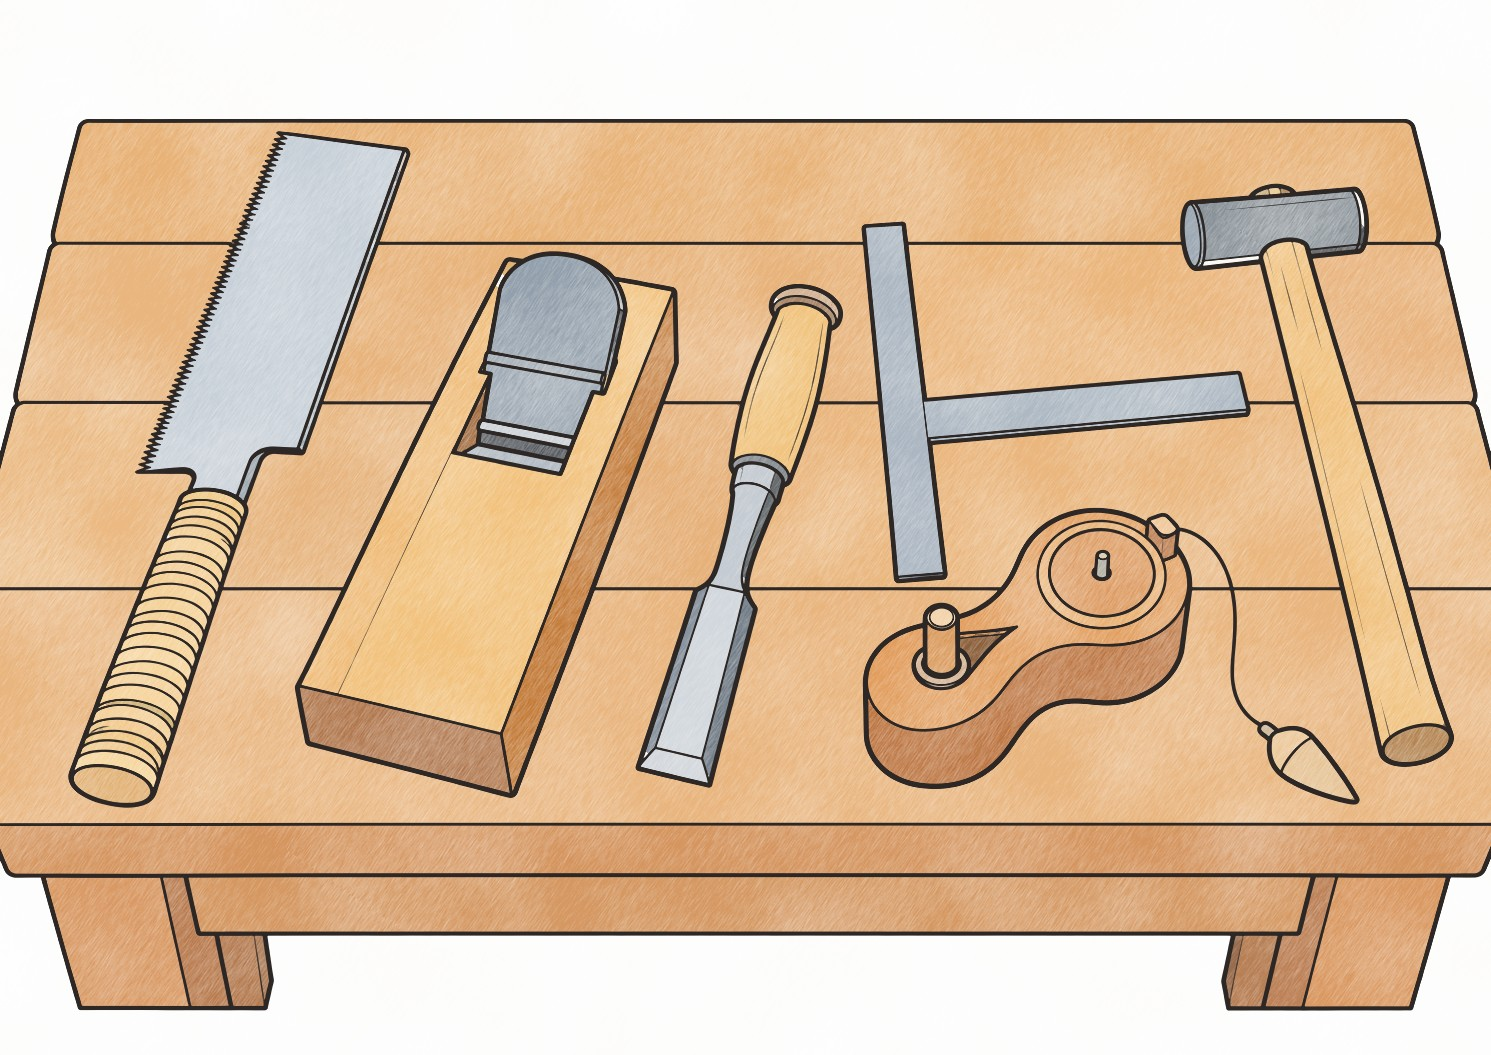
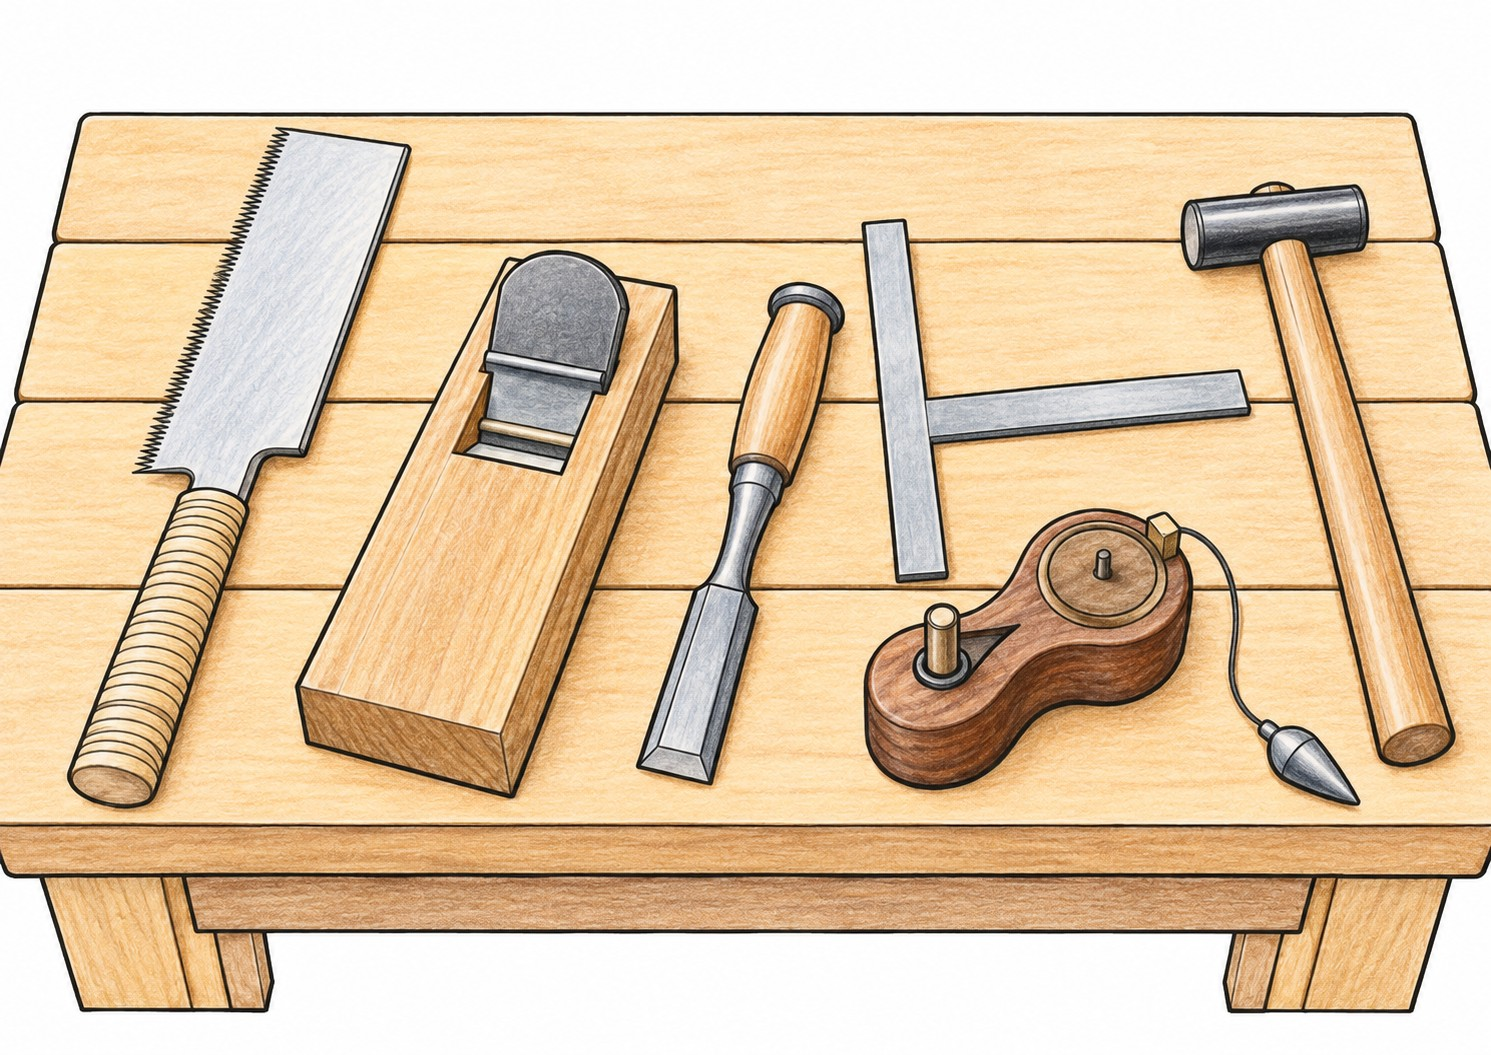
大工道具の色見本を色鉛筆タッチで作り直し
Claude-Session: https://claude.ai/code/session_01EPRbSQ3rtMhzgBwCAHuB7h

diff --git a/data.js b/data.js
@@ -1061,7 +1061,7 @@ window.NURIE_LIST = [
   { season: "通年", genre: "乗り物", title: "路面電車", diff: "中級", file: "romen_densha_chu.png", sample: "romen_densha_chu_sample.jpg", added: "2026-10", date: "2026-10-31", v: "1793449639821" },
   { season: "通年", genre: "風景", title: "漁港と漁船", diff: "上級", file: "gyoko_jo.png", sample: "gyoko_jo_sample.jpg", added: "2026-10", date: "2026-10-31", v: "1793449639821" },
   { season: "通年", genre: "人物", title: "渓流釣り", diff: "中級", file: "keiryu_zuri_chu.png", sample: "keiryu_zuri_chu_sample.jpg", added: "2026-10", date: "2026-10-31", v: "1793449639821" },
-  { season: "通年", genre: "その他", title: "大工道具", diff: "初級", file: "daiku_dougu_sho.png", sample: "daiku_dougu_sho_sample.jpg", added: "2026-10", date: "2026-10-31", v: "1793451637883" },
+  { season: "通年", genre: "その他", title: "大工道具", diff: "初級", file: "daiku_dougu_sho.png", sample: "daiku_dougu_sho_sample.jpg", added: "2026-10", date: "2026-10-31", v: "1793452683290" },
   { season: "通年", genre: "人物", title: "草野球", diff: "中級", file: "kusayakyu_chu.png", sample: "kusayakyu_chu_sample.jpg", added: "2026-10", date: "2026-10-31", v: "1793452172795" },
   { season: "通年", genre: "風景", title: "灯台と海", diff: "中級", file: "toudai_chu.png", sample: "toudai_chu_sample.jpg", added: "2026-10", date: "2026-10-31", v: "1793449639821" },
   { season: "通年", genre: "乗り物", title: "帆船", diff: "上級", file: "hansen_jo.png", sample: "hansen_jo_sample.jpg", added: "2026-10", date: "2026-10-31", v: "1793449639821" },
